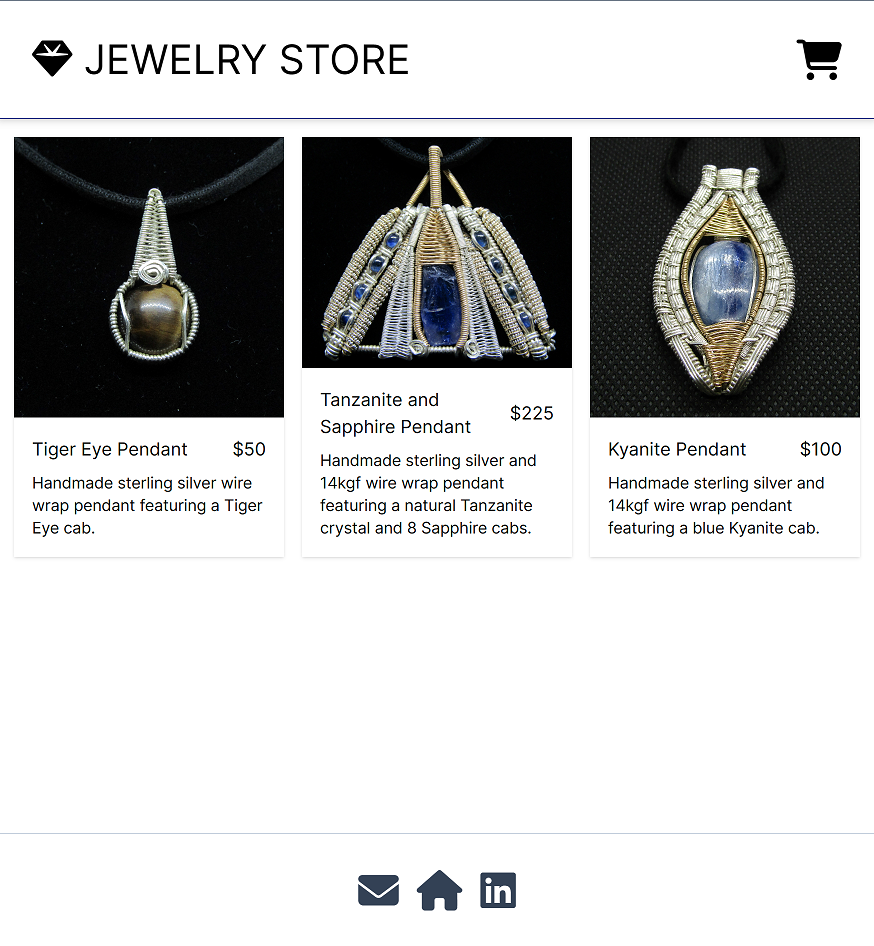
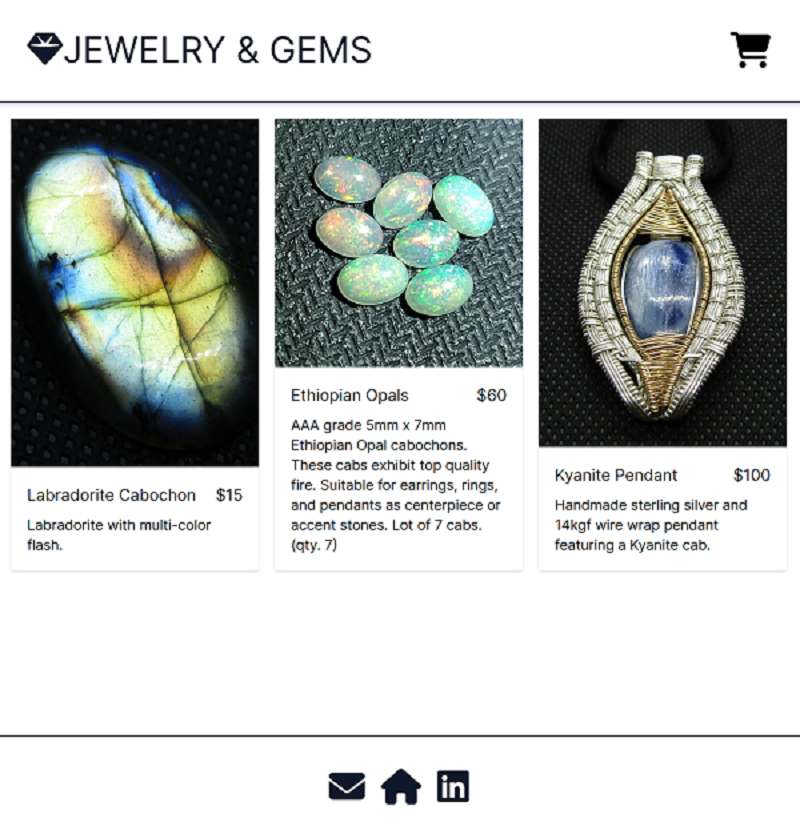
ok

diff --git a/index.html b/index.html
@@ -75,9 +75,9 @@
         <div class="col-sm-12 col-md-6 col-lg-4 mb-4">
           <div class="card">
             <div class="card-body">
-              <h5 class="card-title">Digital Business Card</h5>
-              <img src="images/LILogo.png" alt="Project 001" class="project-image">
-              <p class="card-text">Digital Business Card, QRCode, Short URL generator</p>
+              <h5 class="card-title">My Card</h5>
+              <img src="images/DIGITAL.png" alt="Project 001" class="project-image">
+              <p class="card-text">Digital Business Card, QRCode, and Short URL generator. Made with Android Studio.</p>
               <a rel="noopener"  href="https://play.google.com/store/apps/details?id=card.digitalbusinesscard"  target="_blank"  class="btn">Google Play</a>
             </div>
           </div>
@@ -195,9 +195,9 @@
   <div class="col-sm-12 col-md-6 col-lg-4 mb-4">
     <div class="card">
       <div class="card-body">
-        <h5 class="card-title">Jewelry Store</h5>
+        <h5 class="card-title">Jewelry & Gems</h5>
           <img src="images/project_cover_next-store.png" alt="Project 1" class="project-image">
-          <p class="card-text">An e-commerce site for selling my handmade silver Jewelry. Built with NextJS, TailwindCSS, Stripe, and Zustand.</p>
+          <p class="card-text">An e-commerce site for selling silver jewelry and gems. Built with NextJS, TailwindCSS, Stripe, and Zustand.</p>
           <a rel="noopener" href="https://next-jewelry.vercel.app" target="_blank" class="btn">View Live</a>
           <a rel="noopener" href="https://github.com/JRH89/nextjs-store" target="_blank" class="btn">Source Code</a>
       </div>
@@ -291,16 +291,16 @@
 </div>
 
 <script src="newport.js"></script>
-  
-<footer>
+  <div class="bottom">
+<footer class="footer">
   <hr>
   <p>
-    Created by Jared Hooker
+    Created by: Jared Hooker
     <br>
     Hooker Hill Studios © 2023
   </p>
 </footer>
-
+</div>
 </body>
 
 </html>

diff --git a/newport.css b/newport.css
@@ -13,6 +13,7 @@
     box-sizing: border-box;
     flex-grow: 0;
     background-image: 'images/BG.jpg';
+    
 
   }
   
@@ -30,19 +31,20 @@
 
   body {
     margin-top: 2em;
-   
+   height: 100%;
     font-family: 'Play', sans-serif;
     font-size: 1em;
-   
+  
     background-color: #f5f5f5;
     color: #000; 
     transition: background-color 0.3s ease;
+    justify-content: center;
   }
   
   .container p {
-    max-width: 700px;
-    padding-left: 1em;
-    padding-right: 1em;
+    max-width: 600px;
+    padding-left: 2em;
+    padding-right: 2em;
     font-size: 1.1em;
     font-weight: 500;
     line-height: 1.3em;
@@ -97,8 +99,15 @@
     flex-grow: 0;
   }
 
+
+
     footer {
       text-align: center;
+      margin-bottom: none;
+      bottom: 0;
+      justify-content: center;
+      width: 100%;
+      background-color: #000;
     }
 
     hr {
@@ -122,7 +131,7 @@
   }
  
   nav {
-    
+
     background-image: linear-gradient(to right, #2697d8,  #7ed957, #ff5757);
     justify-content: space-evenly;
     align-items: center;
@@ -279,14 +288,21 @@
   }
   
 footer {
-  color: white;
+  background-color: black;
   background: linear-gradient(to right, #2697d8,  #7ed957, #ff5757);
   -webkit-background-clip: text;
   background-clip: text;
   -webkit-text-fill-color: transparent;
   text-fill-color: transparent;
   color: #e52e71;
-
+  font-size: 1em;
+  align-items: center;
+  place-items: center;
+  text-align: center;
+  
+  text-align: center;
+justify-content: center;
+justify-self: center;
 }
 
   .row {

diff --git a/newport.js b/newport.js
@@ -1,12 +1,7 @@
-const toggleBtn = document.getElementById("toggle-btn");
 const body = document.body;
 body.classList.add("dark-mode");
 
-toggleBtn.addEventListener("click", function() {
-  body.classList.toggle("dark-mode");
-});
 
-const toggleButton = document.getElementById('toggle-button');
 const projects = document.getElementById('projects');
 
 // Recent Projects button
